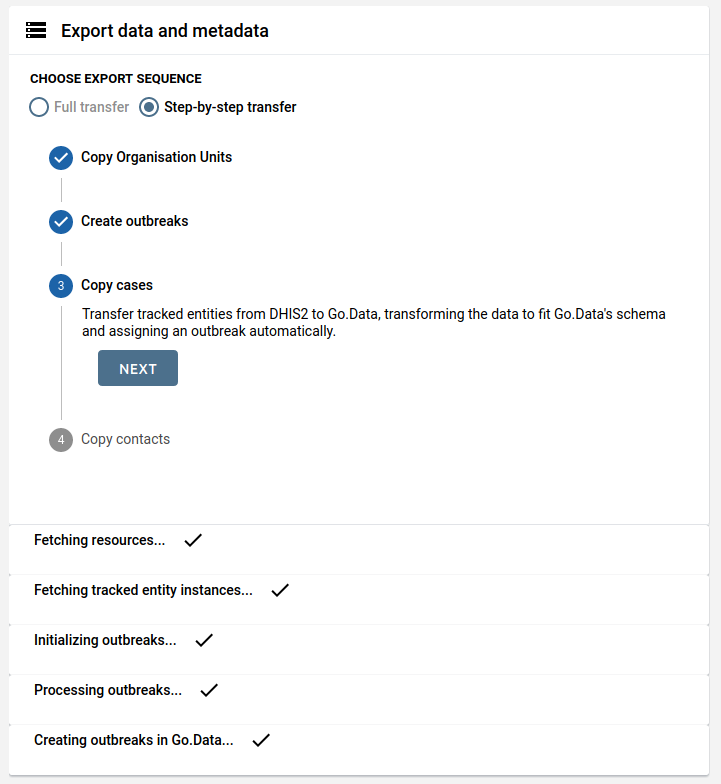
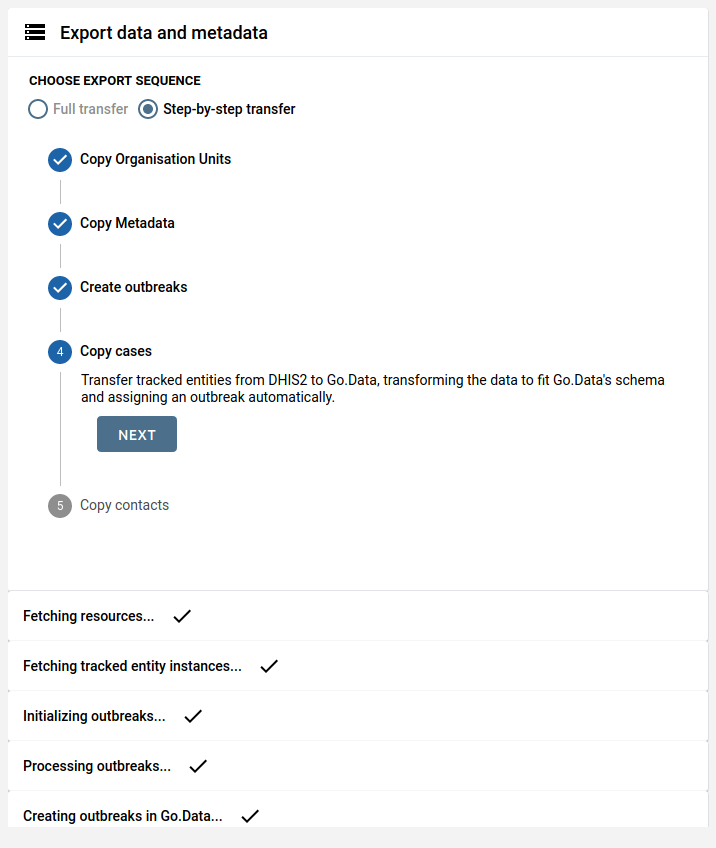
Adding Copy-Metadata step

diff --git a/src/api/Actions.js b/src/api/Actions.js
@@ -72,13 +72,17 @@ const Actions = () => {
                     await copyOrganisationUnits(dhis2, godata, config, { logAction, logDone })()
                     break
                 case 1: 
-                    await createOutbreaks(dhis2, godata, config, { logAction, logDone })()
+                    await copyMetadata(dhis2, godata, config, { logAction, logDone })()
                     break
                 case 2: 
                     await godata.login()
-                    await copyCases(dhis2, godata, config, { logAction, logDone })()
+                    await createOutbreaks(dhis2, godata, config, { logAction, logDone })()
                     break
                 case 3: 
+                    await godata.login()
+                    await copyCases(dhis2, godata, config, { logAction, logDone })()
+                    break
+                case 4: 
                     await godata.login()
                     await copyContacts(dhis2, godata, config, { logAction, logDone })()
                     setDone(true)
@@ -179,7 +183,8 @@ const Actions = () => {
                 
                 { done && 
                     <Card className="log">
-                        <p className="p">All steps completed - you're finished</p>
+                        <p className="p">
+                            <span>All steps completed - you're finished</span></p>
                     </Card>
                 }
             </div>

diff --git a/src/utils/labels.js b/src/utils/labels.js
@@ -14,7 +14,7 @@ function getFullStepContent(step) {
 }
 
 function getSteps() {
-    return ['Copy Organisation Units', 'Create outbreaks', 'Copy cases', 'Copy contacts']
+    return ['Copy Organisation Units', 'Copy Metadata', 'Create outbreaks', 'Copy cases', 'Copy contacts']
 }
   
 function getStepContent(step) {
@@ -22,10 +22,12 @@ function getStepContent(step) {
         case 0:
             return "Get all organisation units from DHIS2, transforms them to fit Go.Data's schema and saves them hierarchally in a json file that needs to be downloaded."
         case 1:
-            return "Create Go.Data outbreaks based on the organisation units and tracked entities of the DHIS2 instance."
+            return "Copy DHIS2 metadata into Go.Data."
         case 2:
-            return "Transfer tracked entities from DHIS2 to Go.Data, transforming the data to fit Go.Data's schema and assigning an outbreak automatically."
+            return "Create Go.Data outbreaks based on the organisation units and tracked entities of the DHIS2 instance."
         case 3:
+            return "Transfer tracked entities from DHIS2 to Go.Data, transforming the data to fit Go.Data's schema and assigning an outbreak automatically."
+        case 4:
             return "Transfer contacts from DHIS2 to Go.Data, adding aditional persons and the relationships among them."    
         default:
             return "Unknown step"

diff --git a/src/styles/Actions.css b/src/styles/Actions.css
@@ -14,19 +14,15 @@
 }
 
 .logAction {
-	display: flex;
-	align-content: center;
-	margin-left: 10px;
 	margin-right: 15px;
 	font-weight: 500;
 	font-size: 14px;
 }
-.logAction svg {
-	margin-left: 5px;
-}
 
 .log {
 	height: 50px !important;
+	display: flex !important;
+	align-items: center;
 }
 
 .MuiStepLabel-label.MuiStepLabel-active {

diff --git a/README.md b/README.md
@@ -29,7 +29,7 @@ DHIS2 basic app to allow interoperability between DHIS2 and Go.Data instances
     <img src="./images/base-config.png" width="600">
 </p>
 
-+ **Export data and metadata**: There are two possible import sequences. Both ways are equivalent, the only difference is that the *Full transfer* sequence groups *Create outbreaks*, *Copy cases* and *Copy contacts* all in one step. 
++ **Export data and metadata**: There are two possible import sequences. Both ways are equivalent, the only difference is that the *Full transfer* sequence groups *Copy Metadata*, *Create outbreaks*, *Copy cases* and *Copy contacts* all in one step. 
     + Copy Organisation Units: At the end of this step, a pop-up window will appear to download the orgUnits `.json`. This file needs to be saved on the computer and imported on the Go.Data instance following the path: <br />
     `Go.Data → Locations → Quick Actions → Import hierarchical locations → Choose file (organisation-units.json) → Import`    
 
